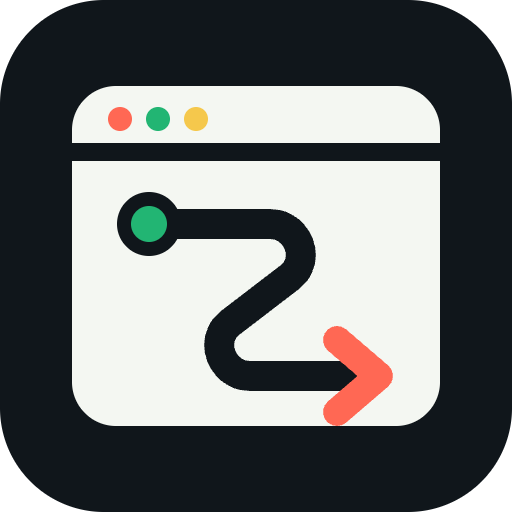
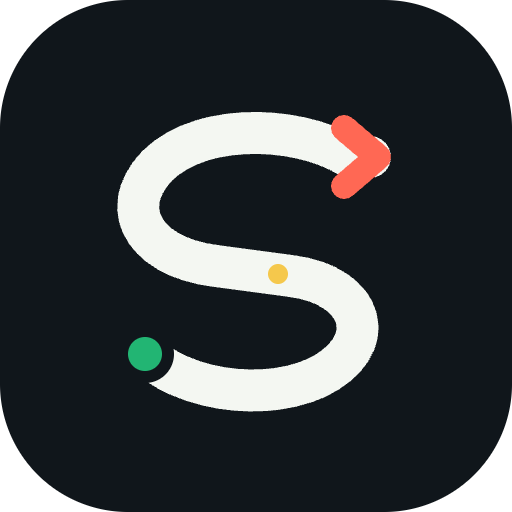
Refresh the Siteverb action-path mark (#9)
## Summary

- Replace the detailed browser-window avatar with an original `S` action
path.
- Keep Siteverb’s existing palette and encode the product loop directly:
green source, yellow evidence checkpoint, coral invocation arrow.
- Update the canonical SVG mark, horizontal wordmark, and social
preview.
- Regenerate the GitHub/npm avatar and social-preview PNGs from source.
- Document the silhouette rule so it stays distinct from striped
analytics marks and remains legible at favicon size.

## Validation

- [x] `npm run check`
- [x] 14 test files and 113 tests passed
- [x] All six package checks passed
- [x] Release check passed for the 0.1.0 train
- [x] `git diff --check`
- [x] Repeated `npm run brand:render` produced byte-identical PNG hashes
- [x] SVG/XML validation and changed-file credential scan passed

## Compatibility

No SDK, contract, browser, client, runtime, or wire behavior changes.

## Rollback

Revert this commit and rerun `npm run brand:render`. No package or
production data migration is required.

diff --git a/BRAND.md b/BRAND.md
@@ -14,8 +14,9 @@ agent, or a security guarantee.
 
 ## Visual system
 
-The mark combines a browser frame with a connected action path. It should remain legible as a small
-organization avatar.
+The mark turns an `S` into a connected action path: a green source, an evidence checkpoint, and a
+coral invocation arrow. Its flat silhouette must remain legible as a small organization avatar and
+must not be redrawn as another product's initial or striped analytics glyph.
 
 | Token    | Hex       | Use                               |
 | -------- | --------- | --------------------------------- |
